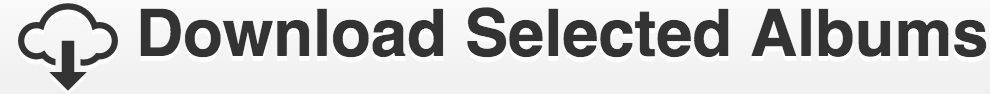
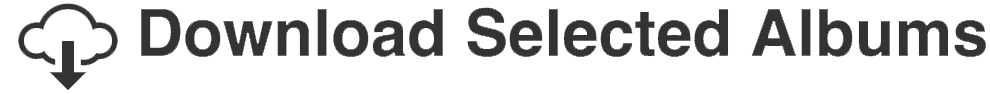
Changed design of Bulk download/move buttons

diff --git a/home.php b/home.php
@@ -177,15 +177,39 @@ try {
                     <div class="panel-heading">Download/Move Bulk Albums</div>
                     <div class="panel-body">
 
-                        <input type="button" class="downloadSelected" disabled="true" value="Download Selected Albums"
-                               name="downloadSelected" id="downloadSelected"><br/>
-                        <input type="button" class="moveSelected" disabled="true"
-                               value="Move Selected Albums to Google+" name="moveSelected" id="moveSelected"><br/>
-                        <input type="button" class="downloadSelected" value="Download All Albums" name="downloadAll"
-                               id="downloadAll"><br/>
-                        <input type="button" class="moveSelected" value="Move All Albums to Google+" name="moveAll"
-                               id="moveAll">
-                        <br/>
+                        <button title="Download Selected Albums(ZIP)" class="btn btn-default downloadSelected"  name="downloadSelected" id="downloadSelected" style="width: 100%;">
+                            <center>
+                                <img src="images/downloadico.png" style="width: 15%;"> Download Selected Albums
+                            </center>
+                        </button>
+
+
+
+
+                        <button title="Move Selected Albums" class="btn btn-default moveSelected"  name="moveSelected" id="moveSelected" style="width: 100%;">
+                            <center>
+                                <img src="images/gplus.png" style="width: 11%;"> Move Selected Albums
+                            </center>
+                        </button>
+
+
+
+
+                        <button title="Download All Albums(ZIP)" class="btn btn-default downloadSelected" name="downloadAll" id="downloadAll" style="width: 100%;">
+                            <center>
+                                <img src="images/downloadico.png" style="width: 15%; "> Download All Albums
+                            </center>
+                        </button>
+
+
+                        <button title="Move All Albums" class="btn btn-default moveSelected" name="moveAll" id="moveAll" style="width: 100%;">
+                            <center>
+                                <img src="images/gplus.png" style="width: 11%;"> Move All Albums
+                            </center>
+                        </button>
+
+
+
                     </div>
                 </div>
                 <div class="panel panel-default">
@@ -277,6 +301,13 @@ try {
 ?>
 <script type="text/javascript">
 $(document).ready(function () {
+
+    $('#downloadSelected').toggle(false);
+    $('#moveSelected').toggle(false);
+    $('#downloadAll').toggle(true);
+    $('#moveAll').toggle(true);
+
+
     var currentstate;
     var originaldata = document.getElementById('fullpagecontent').innerHTML;
 
@@ -448,8 +479,10 @@ $(document).ready(function () {
         if ($(this).is(':checked')) {
 
             parentnode.style.border = "1px solid #021a40";
-            $('#downloadSelected').prop('disabled', false);
-            $('#moveSelected').prop('disabled', false);
+            $('#downloadSelected').toggle(true);
+            $('#moveSelected').toggle(true);
+            $('#downloadAll').toggle(false);
+            $('#moveAll').toggle(false);
 
 
         }
@@ -463,14 +496,15 @@ $(document).ready(function () {
                 }
             });
             if (!k) {
-                $('#downloadSelected').prop('disabled', true);
-                $('#moveSelected').prop('disabled', true);
-
-
+                $('#downloadSelected').toggle(false);
+                $('#moveSelected').toggle(false);
+                $('#downloadAll').toggle(true);
+                $('#moveAll').toggle(true);
             }
         }
     });
     $('.downloadSelected').click(function (e) {
+
         var albumids = new Array();
         var k = 0;
 
@@ -526,6 +560,10 @@ $(document).ready(function () {
     });
 
     $('.moveSelected').click(function (e) {
+
+
+
+
         if (picasastatus) {
             var albumids = new Array();
             var k = 0;

diff --git a/picasaapi.php b/picasaapi.php
@@ -51,7 +51,6 @@ if (isset($_GET['token']) && isset($_SESSION['userid'])) {
             $conn->close();
             header("Location: index.php");
         }
-
     }
 
 

diff --git a/Readme.md b/Readme.md
@@ -2,7 +2,7 @@
 FacebookMemories - is a small tool which lets you save your facebook memories for you to remember it offline. Downloading pictures from facebook can be tedious, and each and everyone has hundreds of pictures on facebook with no option to download all the pictures or move them to Picasa/Google. FacebookMemories is a small utility to achive this task easily.
 
 <ul class="task-list">
-<li><h3>Contributor : <a href="http://github.com/aakashthakkar">@aakashthakkar</a> &lt;thakkaraakash@hotmail.com&gt;</h3></li>
+<li><h3>Contributor : <a href="http://github.com/aakashthakkar">@aakashthakkar</a> <h6>&lt;thakkaraakash@hotmail.com&gt;</h6></h3></li>
 <li><h3>About : </h3>FacebookMemories uses Facebook Oauth 2.0 authorization to login and allows the user to connect with his Picasa/Google+ account using Google's AuthSub authorization.</li>
 <li><h3>Features : </h3>
 <ol>
